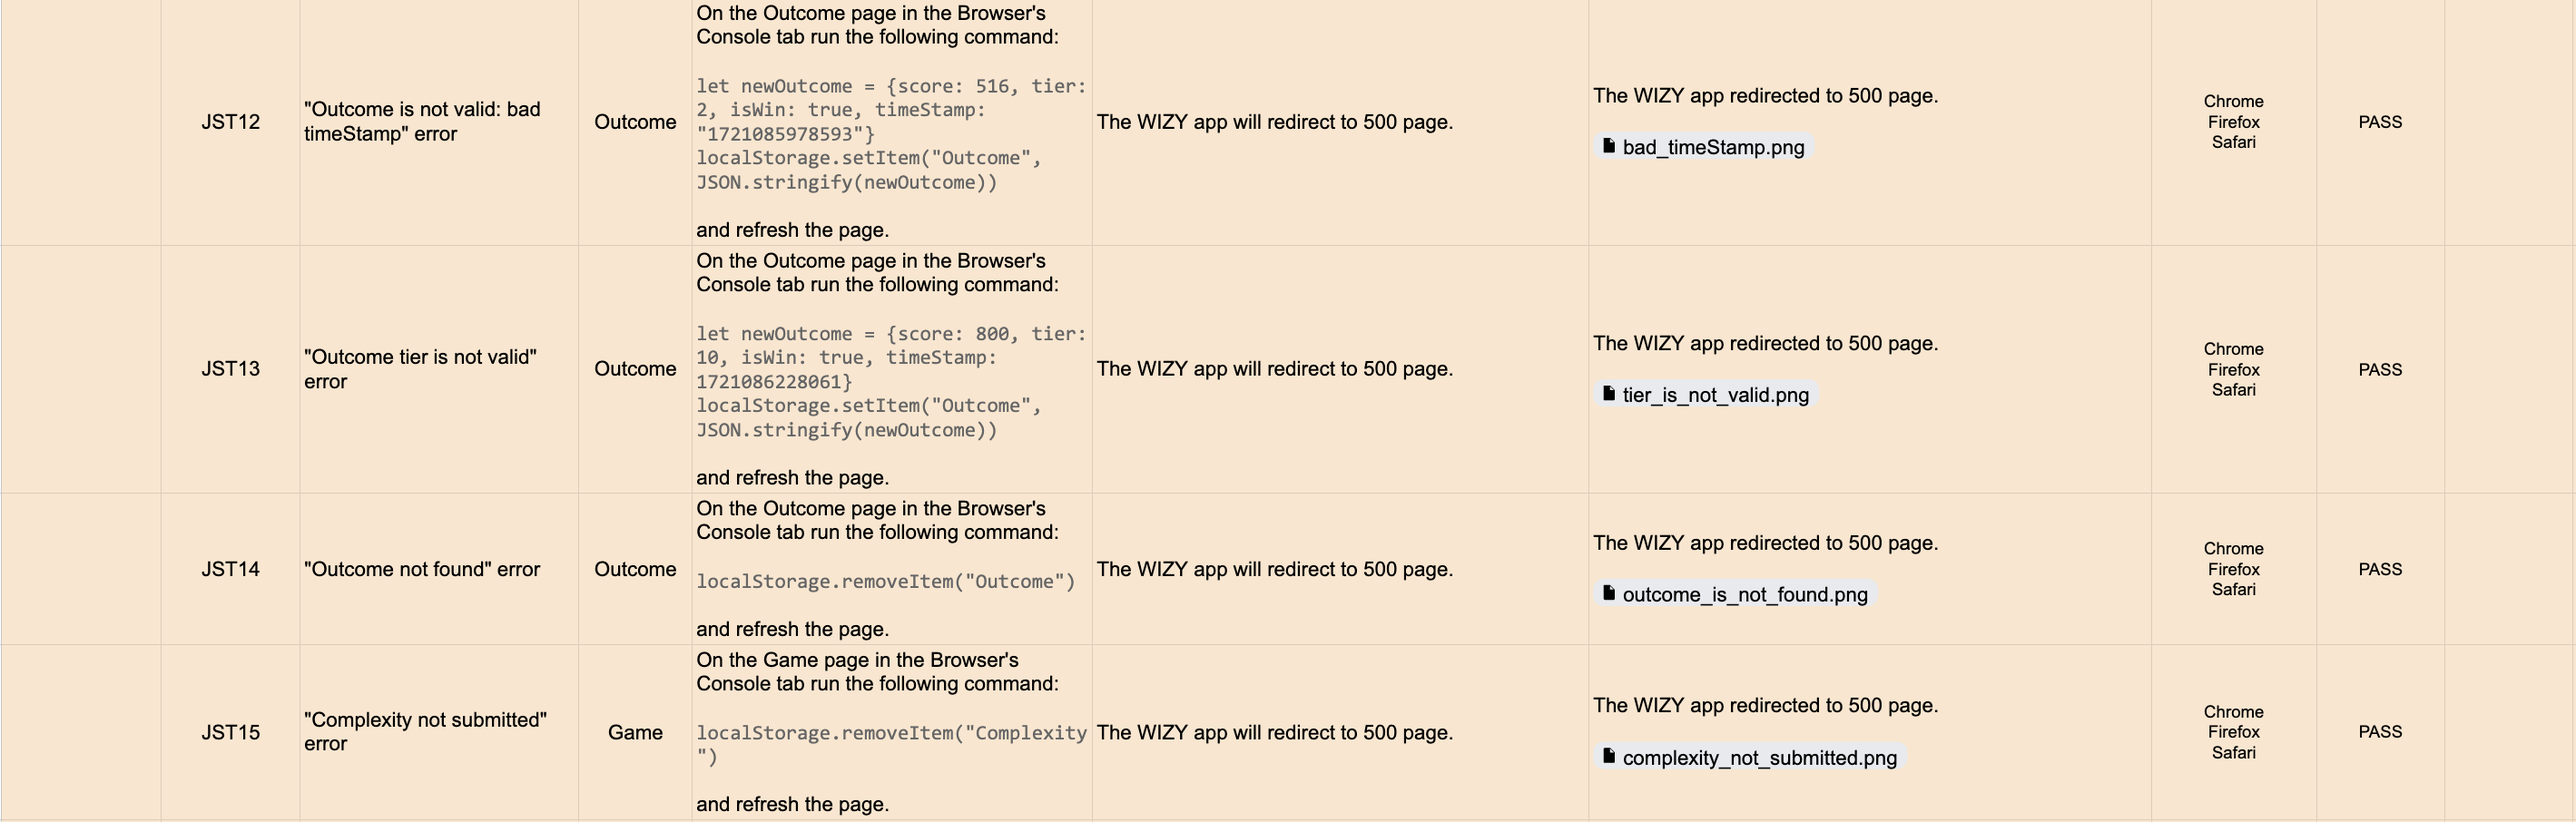
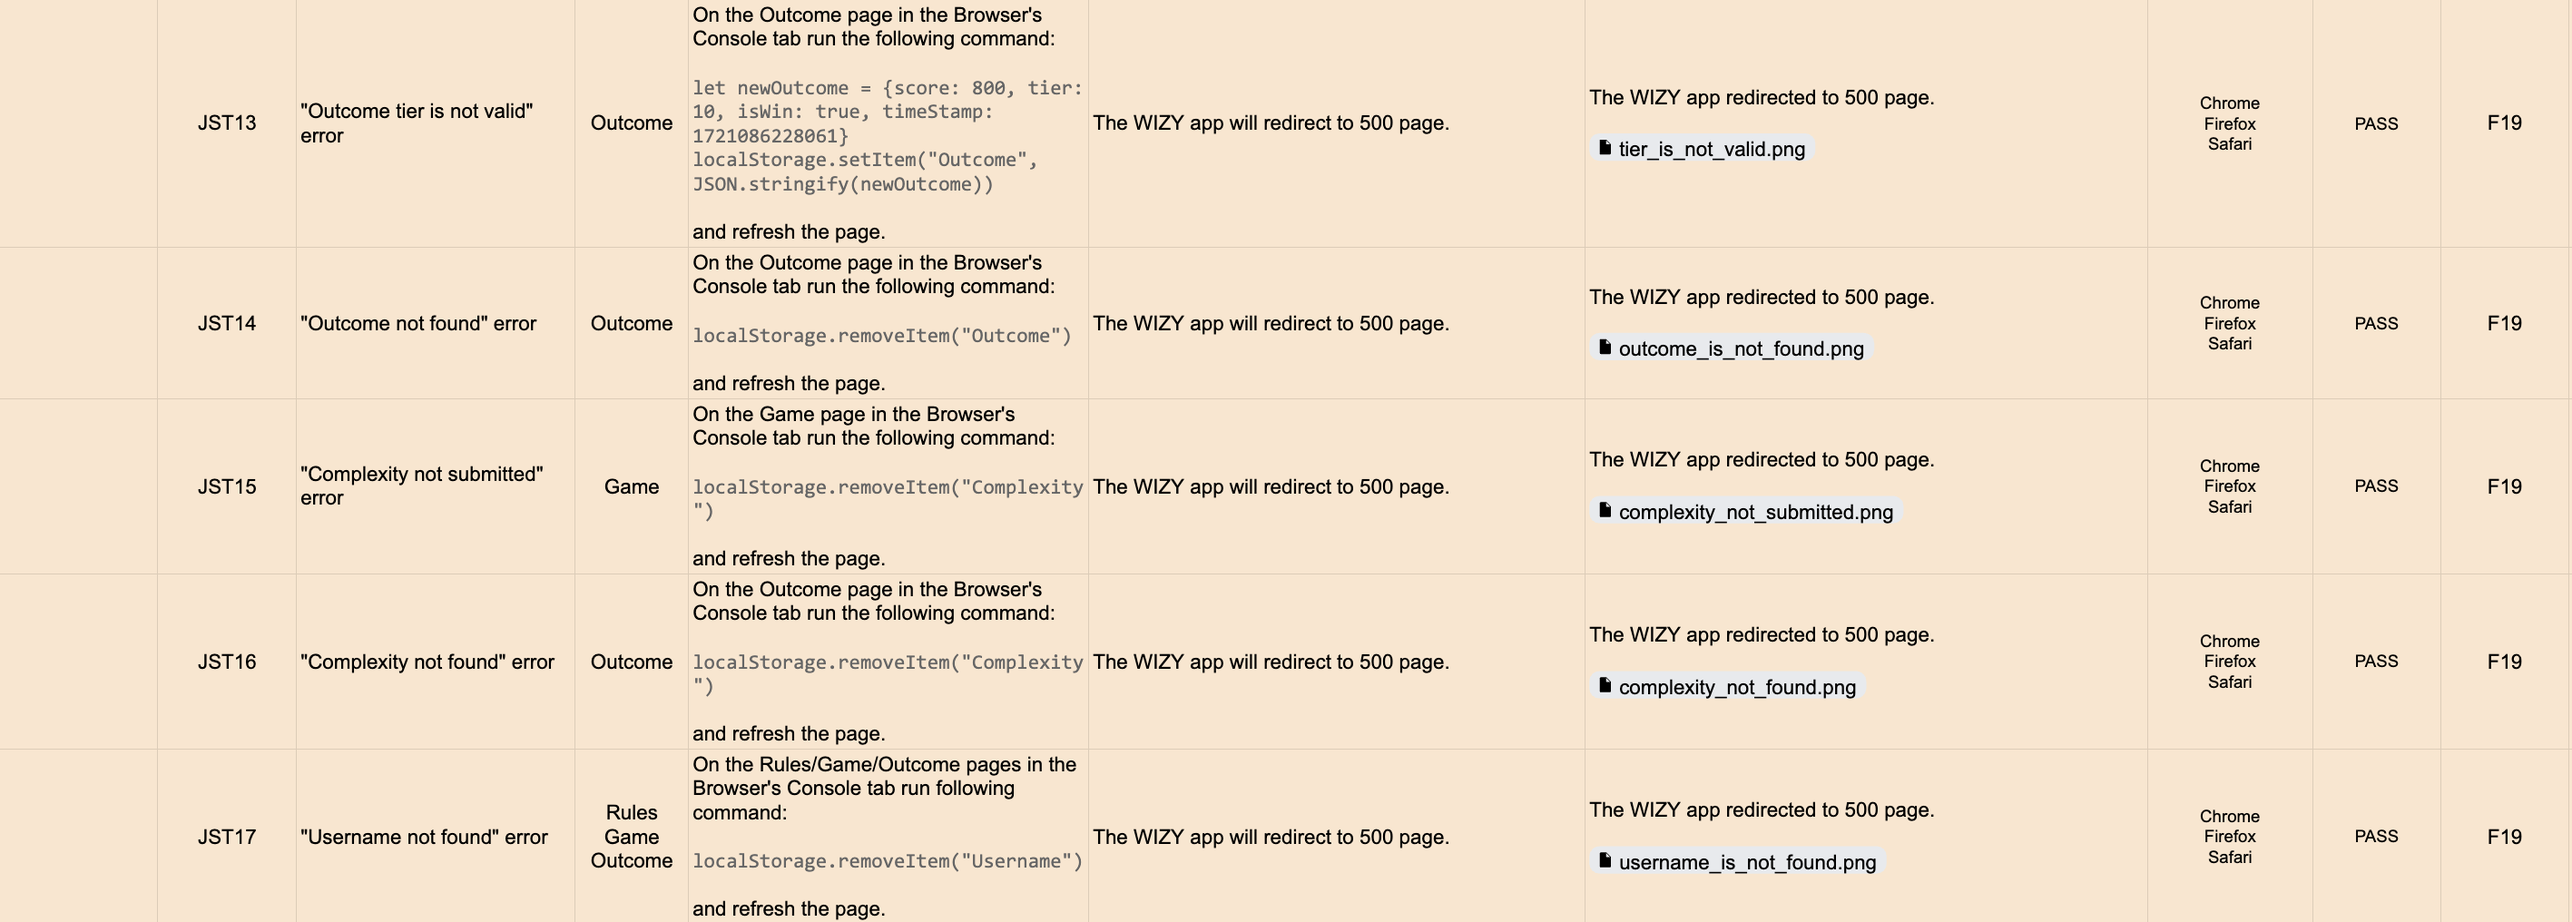
Add F19 Error Handling and Page Redirection feature to README

diff --git a/README.md b/README.md
@@ -460,6 +460,10 @@ As a result, the list of champions on the champions page will be updated.
 > [!NOTE]
 > The picture cropping on small screens is intentional and reflects the author's personal style.
 
+### F19 Error Handling and Page Redirection
+
+The WIZY application is designed to ensure a smooth user experience by catching all errors during the loading process or in case of incorrect data. When the application detects an error, it automatically redirects the user to a custom error page (500.html). This proactive error handling helps maintain the app's stability and provides users with a clear indication that something went wrong, along with a path to get back on track.
+
 ## Future Features
 
 > - Block mobile device rotation to landscape mode OR improve CSS styles.
